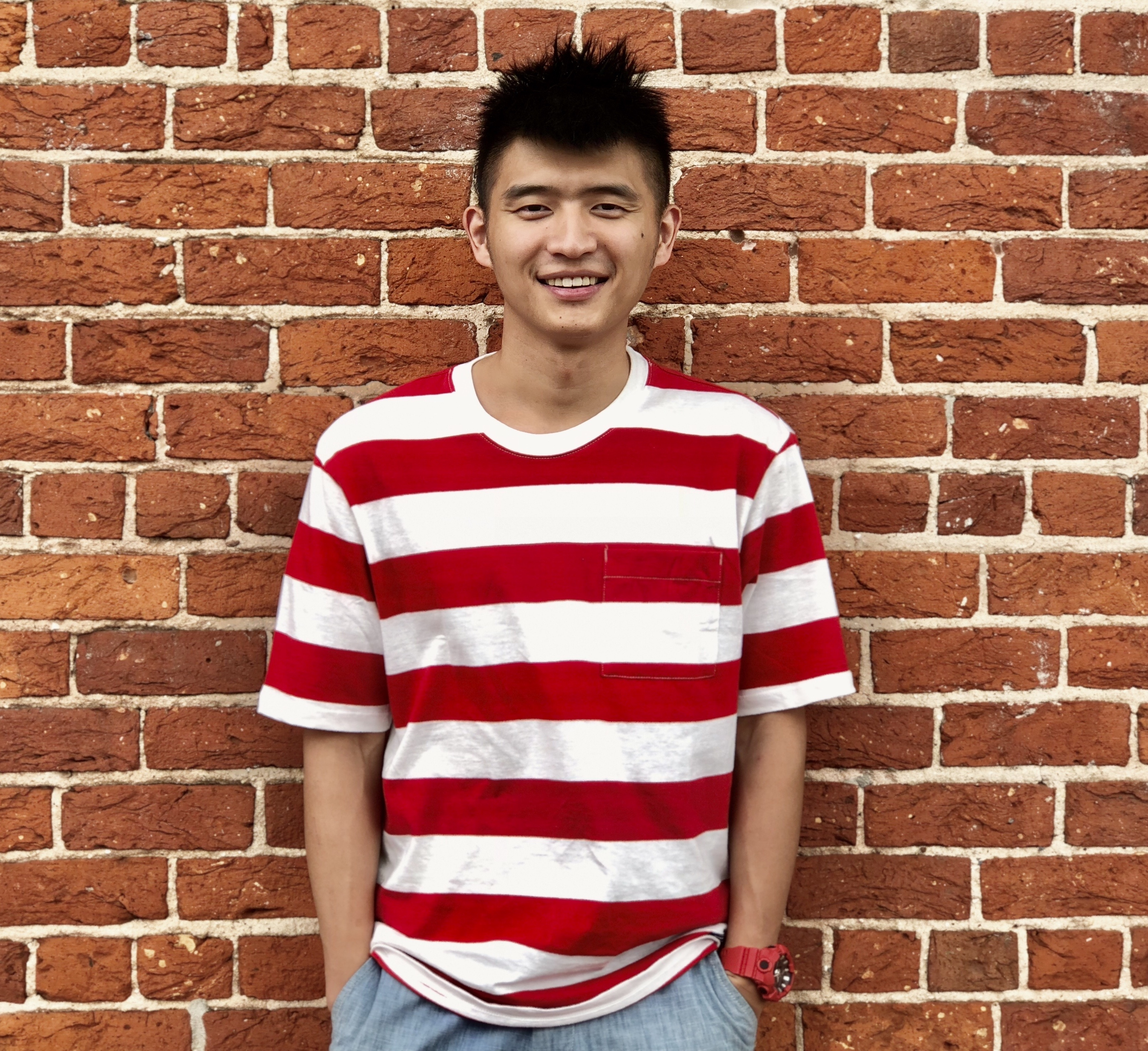
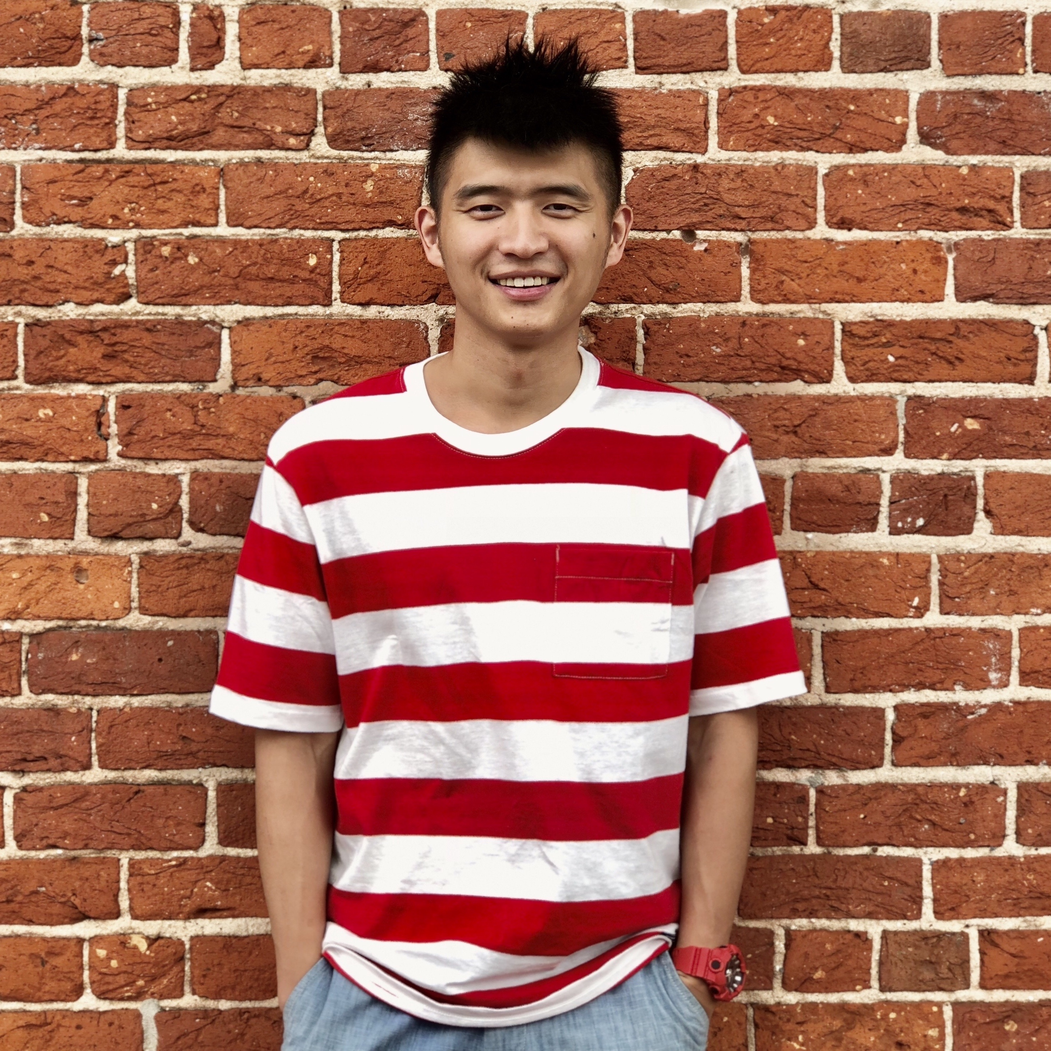
pic

diff --git a/index.html b/index.html
@@ -77,10 +77,11 @@
 			<td>
                 <!-- <img alt="" src="images/1.jpg" onMouseOver="this.src='pic/jiaqi.png'" onMouseOut="this.src='pic/Q.png'"> -->
                 <!--<img class="img-circle" src="pic/jiaqi.png" border="0" width="200px"></br> -->
-                <script language=javascript>
+                <!-- <script language=javascript>
                     id=Math.round(Math.random()*3)+1
                     document.write( "<img class=\"img-circle\" src=\""+id+".png\" order=\"0\" width=\"200px\"></br>")
-                </script>
+                </script> -->
+                <img class="img-circle" alt="" src="pic/jiaqi.png" onMouseOver="this.src='pic/full.png'" onMouseOut="this.src='pic/jiaqi.png'" border="0" width="250px">
 			</td>
 		<tr>
 	</tbody>
